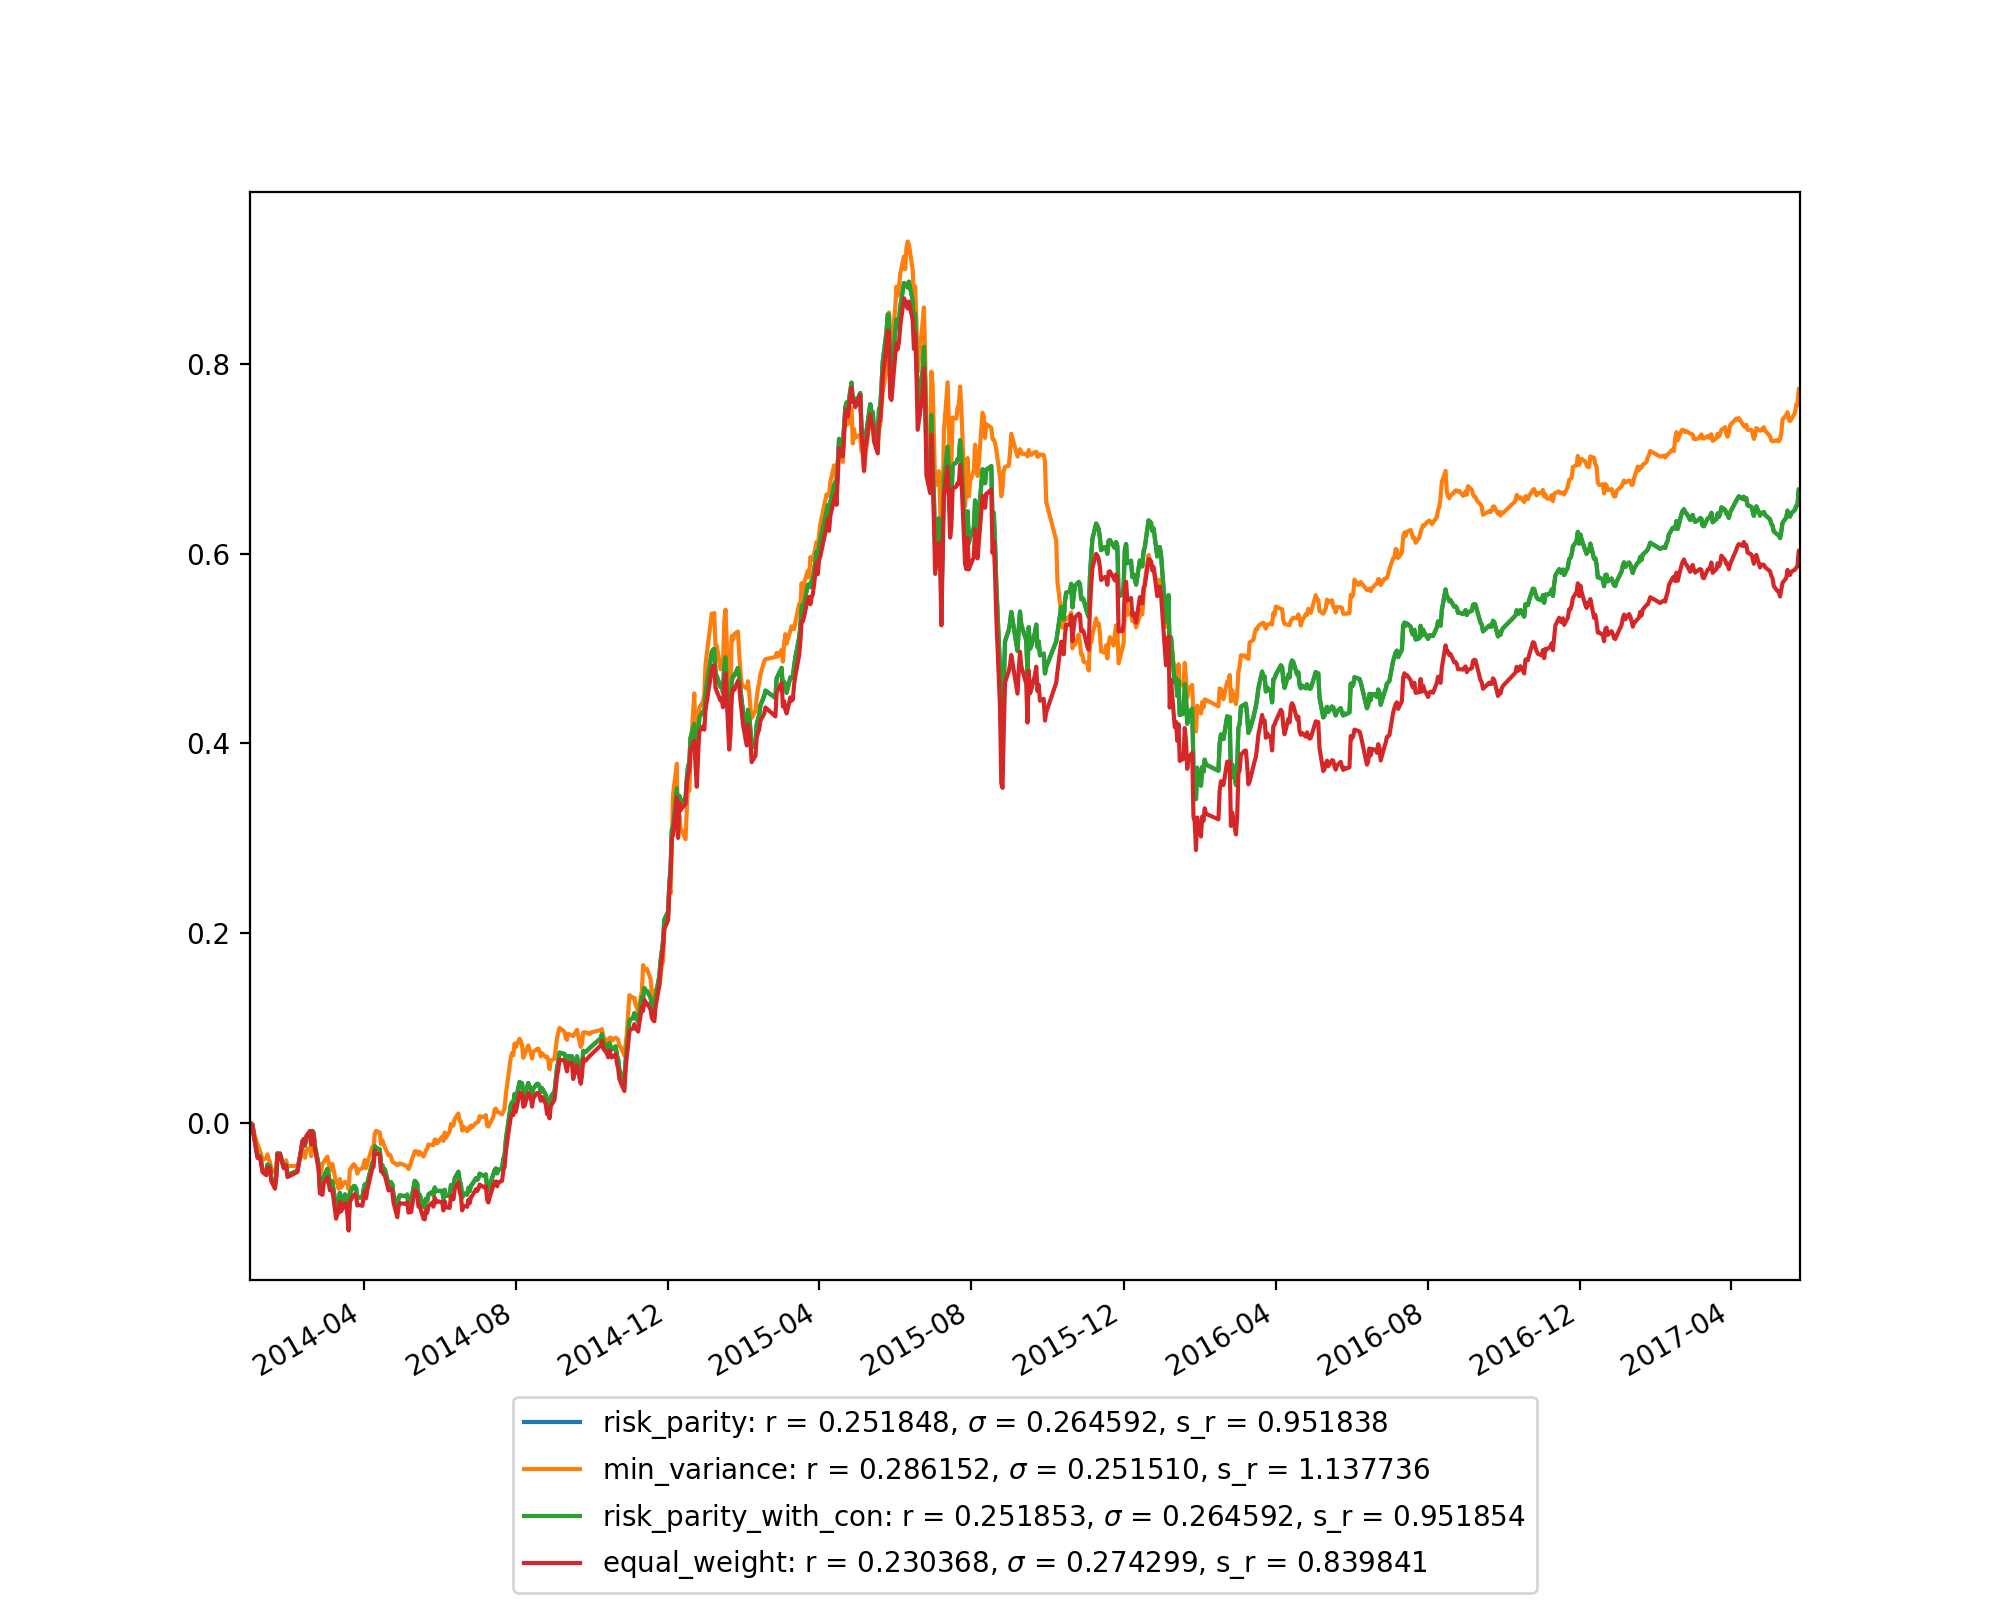
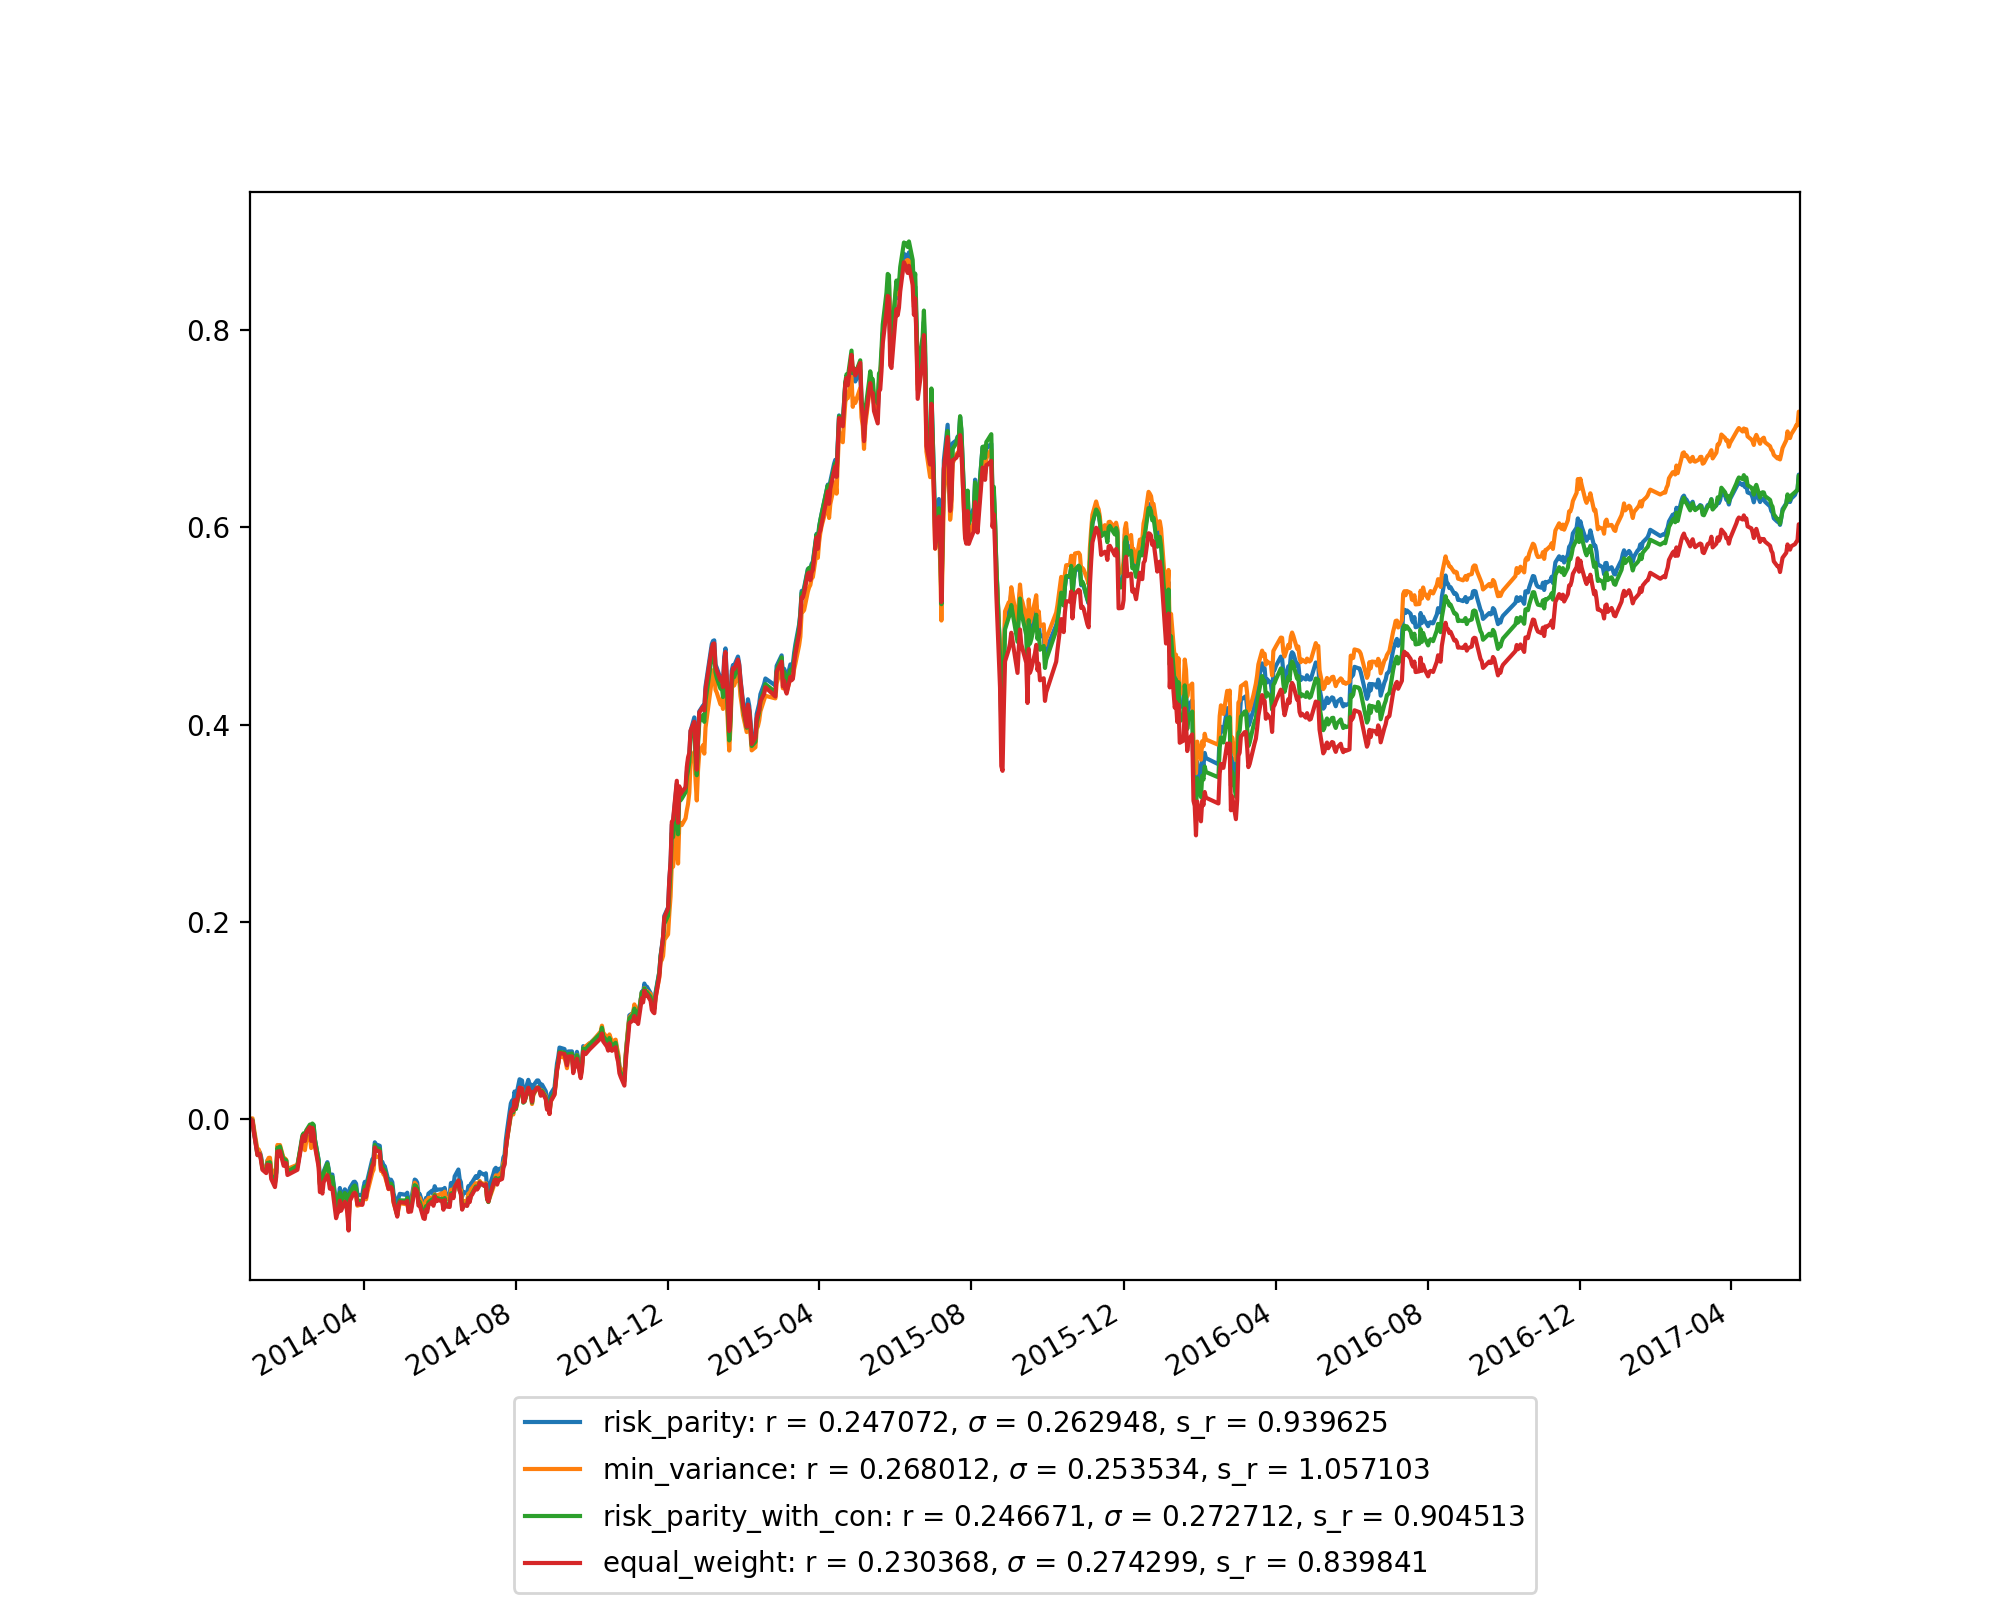
fix all?

diff --git a/optimizer_tests/stock_test/ptfopt0.py b/optimizer_tests/stock_test/ptfopt0.py
@@ -108,12 +108,12 @@ def data_process(order_book_ids, asset_type, start_date, windows, data_freq, out
                 if not ((period_prices_i.isnull() == 0).sum() == 0):
                     # New-listed test
                     if (end_date - instrument_i_listed_date).days <= 132:
-                        temp = pd.DataFrame({"剔除原因": "股票上市时间少于132个交易日"}, index=[i])
+                        temp = pd.DataFrame({"剔除原因": "发行时间少于132个交易日"}, index=[i])
                         kickout_assets = kickout_assets.append(temp)
                     # Delisted test
                     elif instrument_i_de_listed_date != "0000-00-00":
                         if pd.to_datetime(instrument_i_de_listed_date) < end_date:
-                            temp = pd.DataFrame({"剔除原因": "股票已退市"}, index=[i])
+                            temp = pd.DataFrame({"剔除原因": "已退市"}, index=[i])
                             kickout_assets = kickout_assets.append(temp)
                     # Late beginning day test and just-in-case test for missing values
                     elif period_prices_i.isnull().sum() >= out_threshold:
@@ -131,19 +131,8 @@ def data_process(order_book_ids, asset_type, start_date, windows, data_freq, out
     elif asset_type is "fund":
         for i in order_book_ids:
             period_prices_i = period_prices.loc[:, i]
-            instrument_i_de_listed_date = rqdatac.fund.instruments(i).de_listed_date
-            instrument_i_listed_date = pd.to_datetime(rqdatac.fund.instruments(i).listed_date)
             if not ((period_prices_i.isnull() == 0).sum() == 0):
-                # New-listed test
-                if (end_date - instrument_i_listed_date).days <= 132:
-                    temp = pd.DataFrame({"剔除原因": "基金发行时间少于132个交易日"}, index=[i])
-                    kickout_assets = kickout_assets.append(temp)
-                # Delisted test
-                elif instrument_i_de_listed_date != "0000-00-00":
-                    if pd.to_datetime(instrument_i_de_listed_date) < end_date:
-                        temp = pd.DataFrame({"剔除原因": "基金已清算"}, index=[i])
-                        kickout_assets = kickout_assets.append(temp)
-                elif period_prices_i.isnull().sum() >= out_threshold:
+                if period_prices_i.isnull().sum() >= out_threshold:
                     temp = pd.DataFrame({"剔除原因": "缺失值过多"}, index=[i])
                     kickout_assets = kickout_assets.append(temp)
             else:
@@ -411,9 +400,9 @@ def bounds_gen(order_book_ids, clean_order_book_ids, method, bounds=None):
         bounds_list = list(bounds)
         temp_ub = 0
         if method is "risk_parity":
-            log_rp_bnds = [(10 ** -6, None)] * len(clean_order_book_ids)
+            log_rp_bnds = [(10 ** -6, float('inf'))] * len(clean_order_book_ids)
         elif method is "all":
-            log_rp_bnds = [(10 ** -6, None)] * len(clean_order_book_ids)
+            log_rp_bnds = [(10 ** -6, float('inf'))] * len(clean_order_book_ids)
             for i in clean_order_book_ids:
                 if "full_list" in bounds_list:
                     general_bnds = general_bnds + [(max(0, bounds["full_list"][0]), min(1, bounds["full_list"][1]))]
@@ -449,7 +438,7 @@ def bounds_gen(order_book_ids, clean_order_book_ids, method, bounds=None):
         else:
             return tuple(general_bnds)
     else:
-        log_rp_bnds = [(10 ** -6, None)] * len(clean_order_book_ids)
+        log_rp_bnds = [(10 ** -6, float('inf'))] * len(clean_order_book_ids)
         general_bnds = [(0, 1)] * len(clean_order_book_ids)
         if method is "all":
             return tuple(log_rp_bnds), tuple(general_bnds)
@@ -526,7 +515,7 @@ def market_neutral_constraints_gen(clean_order_book_ids, market_neutral_constrai
 def optimizer(order_book_ids, start_date, asset_type, method, current_weight=None, bnds=None, cons=None,
               expected_return=None, expected_return_covar=None, risk_aversion_coefficient=1, windows=None,
               out_threshold_coefficient=None, data_freq=None, fun_tol=10**-8, max_iteration=10**3, disp=False,
-              iprint=1, cov_enhancement=True, benchmark=None):
+              iprint=1, cov_enhancement=False, benchmark=None):
     """
     :param order_book_ids: str list. A list of assets(stocks or funds). Optional when expected_return_covar is given;
     :param start_date: str. Date to initialize a portfolio or re-balance a portfolio. Optional when
@@ -587,9 +576,6 @@ def optimizer(order_book_ids, start_date, asset_type, method, current_weight=Non
             'ftol': fun_tol,
             'iprint': iprint,
             'disp': disp}
-
-    log_barrier_risk_parity_iprint = {0: -1, 1: 0, 2: 1}
-    log_barrier_risk_parity_opts = {'disp': log_barrier_risk_parity_iprint[disp*iprint]}
 
     if data_freq is None:
         data_freq = "D"
@@ -684,6 +670,7 @@ def optimizer(order_book_ids, start_date, asset_type, method, current_weight=Non
             for i in all_types:
                 cons[i] = (cons_num - 0.03, cons_num + 0.03)
         #########################################################################
+
         general_cons = general_constraints_gen(order_book_ids, clean_order_book_ids, asset_type, cons)
 
     # Log barrier risk parity model
@@ -697,13 +684,11 @@ def optimizer(order_book_ids, start_date, asset_type, method, current_weight=Non
 
     def log_barrier_risk_parity_optimizer():
         optimization_res = sc_opt.minimize(log_barrier_risk_parity_obj_fun, current_weight, method='L-BFGS-B',
-                                           jac=log_barrier_risk_parity_gradient, bounds=log_rp_bnds,
-                                           options=log_barrier_risk_parity_opts)
-
+                                           jac=log_barrier_risk_parity_gradient, bounds=log_rp_bnds)
+        optimization_info = optimization_res.message
         if not optimization_res.success:
             if optimization_res.nit >= max_iteration:
                 optimal_weights = (optimization_res.x / sum(optimization_res.x))
-                optimization_info = "Iteration limit exceeded"
                 return optimal_weights, optimization_info
             else:
                 temp = ' @ %s' % clean_period_prices.index[0]
@@ -711,7 +696,6 @@ def optimizer(order_book_ids, start_date, asset_type, method, current_weight=Non
                 raise OptimizationError(error_message)
         else:
             optimal_weights = (optimization_res.x / sum(optimization_res.x))
-            optimization_info = "Optimization terminated successfully."
             return optimal_weights, optimization_info
 
     # Risk parity with constraints model
@@ -729,7 +713,7 @@ def optimizer(order_book_ids, start_date, asset_type, method, current_weight=Non
                 return optimization_res.x, optimization_info
             else:
                 temp = ' @ %s' % clean_period_prices.index[0]
-                error_message = '错误：带限制条件的risk_parity 算法优化失败，' + str(optimization_res.message) \
+                error_message = '错误：risk_parity 算法优化失败，' + str(optimization_res.message) \
                                 + temp
                 raise OptimizationError(error_message)
         else:
@@ -817,14 +801,11 @@ def optimizer(order_book_ids, start_date, asset_type, method, current_weight=Non
     else:
         temp1 = pd.DataFrame(index=list(c_m.columns.values), columns=['risk_parity', 'min_variance',
                                                                       "risk_parity_with_con"])
-        temp2 = pd.DataFrame(index=["risk_parity", "min_variance", "risk_parity_with_con"],
-                             columns=["Opt Res Message"])
         n = 0
         for f in opt_dict[method]:
             temp1.iloc[:, n] = f()[0]
-            temp2.iloc[n, 0] = f()[1]
             n = n + 1
         if expected_return_covar is None:
-            return temp1, c_m, data_after_processing[1], temp2
+            return temp1, c_m, data_after_processing[1]
         else:
-            return temp1, c_m, temp2
+            return temp1, c_m

diff --git a/JJJ/fund_test/optimizer_fund_test.py b/JJJ/fund_test/optimizer_fund_test.py
@@ -88,7 +88,7 @@ def get_optimizer(order_book_ids, start_date, asset_type, method, tr_frequency =
                   cons=None, expected_return=None, expected_return_covar=None, risk_aversion_coefficient=1, fields = 'weights',
                   end_date = dt.date.today().strftime("%Y-%m-%d"), name = None, bc = 0):
     """
-    Wrap ptfopt.py to run optimizer and get indicators
+    Wrap ptfopt0.py to run optimizer and get indicators
     :param order_book_ids: list. A list of assets(stocks or funds);
     :param start_date: str. Date to initialize a portfolio or rebalance a portfolio;
     :param asset_type: str or str list. Types of portfolio candidates,  "stock" or "fund", portfolio with mixed assets
@@ -139,7 +139,7 @@ def get_optimizer(order_book_ids, start_date, asset_type, method, tr_frequency =
         methods = method
 
 
-    # call ptfopt.py and run 'optimizer'
+    # call ptfopt0.py and run 'optimizer'
     opt_res = {}
     weights = {}
     c_m = {}

diff --git a/optimizer_tests/stock_test/optimizer_stock_test.py b/optimizer_tests/stock_test/optimizer_stock_test.py
@@ -8,7 +8,7 @@ import matplotlib.pyplot as plt
 import numpy as np
 from math import *
 import pandas as pd
-from optimizer_tests.stock_test.ptfopt import *
+from optimizer_tests.stock_test.ptfopt0 import *
 
 
 
@@ -186,7 +186,7 @@ def get_optimizer(order_book_ids, start_date, asset_type, method, tr_frequency =
                                    cons= 1, fun_tol=10**-8)
         elif bc == 3:
             opt_res[i] = optimizer(order_book_ids, start_date=time_frame[i], asset_type=asset_type, method=method,
-                                   bnds={'full_list': (0, 0.03)}, cons = 1, fun_tol=10**-8)
+                                   bnds={'full_list': (0, 0.025)}, cons = 1, fun_tol=10**-8, iprint = 2, disp = True)
 
         # if all assets have been ruled out, print and return -1
         if len(opt_res[i]) == 1:

diff --git a/zhousen/optimizer.py b/zhousen/optimizer.py
@@ -17,7 +17,7 @@ import matplotlib.pyplot as plt
 
 
 
-# wrap ptfopt.py to perform as some general API
+# wrap ptfopt0.py to perform as some general API
 
 
 def get_optimizer(order_book_ids, start_date, asset_type, method, tr_frequency = 66, current_weight=None, bnds=None,
@@ -62,7 +62,7 @@ def get_optimizer(order_book_ids, start_date, asset_type, method, tr_frequency =
 
 
 
-    # call ptfopt.py and run 'optimizer'
+    # call ptfopt0.py and run 'optimizer'
     opt_res = {}
     weights = {}
     c_m = {}

diff --git a/zhousen/zs1.py b/zhousen/zs1.py
@@ -55,3 +55,16 @@ q.append({'type': 'ineq', 'fun': lambda x: x[1]})
 
 zs([1,2,3])
 
+
+
+
+
+start_date = '2014-01-01'
+
+end_date= '2017-05-31'
+method = 'risk_parity_with_con'
+asset_type = 'stock'
+order_book_ids =stock_test_suite[0]
+
+
+tr_frequency = 66

diff --git a/optimizer_tests/stock_test/stock_run.py b/optimizer_tests/stock_test/stock_run.py
@@ -14,6 +14,7 @@ from optimizer_tests.stock_test.optimizer_stock_test import *
 
 
 
+
 ##  generate stock_test_suite
 # stock_test_suite = get_stock_test_suite()
 # len(stock_test_suite)
